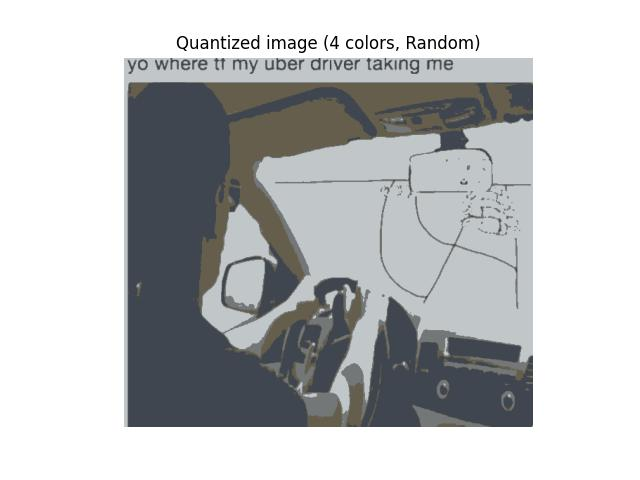
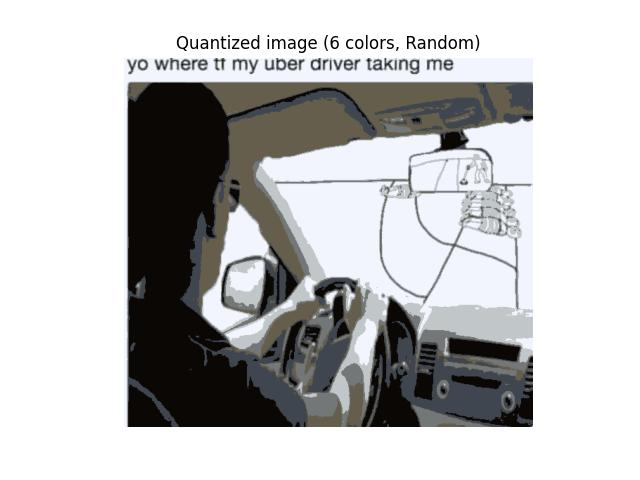
made it work for files of any name

Changed region(s): [[0.1875, 0.0625, 0.8438, 0.9062], [0.7188, 0.8438, 0.75, 0.875], [0.5, 0.7812, 0.5312, 0.8125]]

diff --git a/src/main.py b/src/main.py
@@ -13,9 +13,9 @@ from sklearn.datasets import load_sample_image
 from sklearn.metrics import pairwise_distances_argmin
 from sklearn.utils import shuffle
 
-n_colors = 4
+n_colors = 6
 filename = "uber.jpg"
-# Load the Summer Palace photo
+# Load the photo
 image = np.array(Image.open(filename))
 
 # Convert to floats instead of the default 8 bits integer coding. Dividing by
